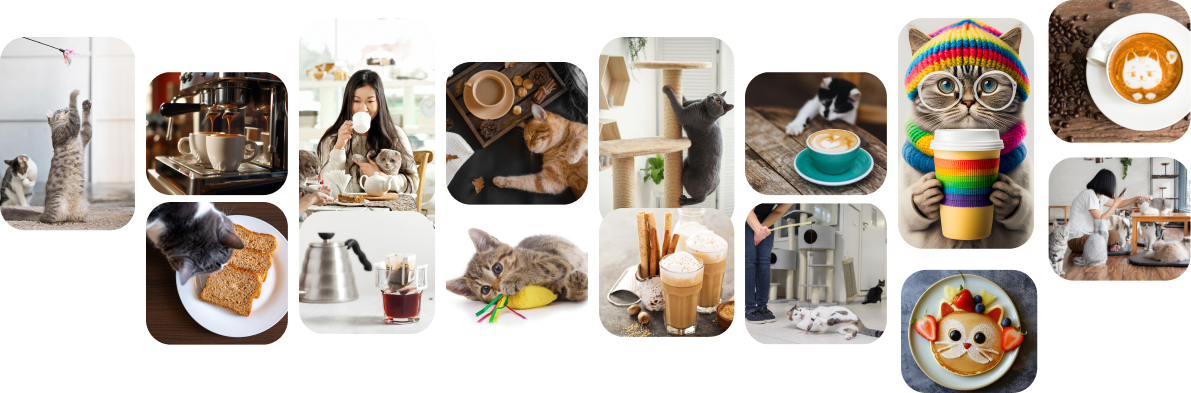
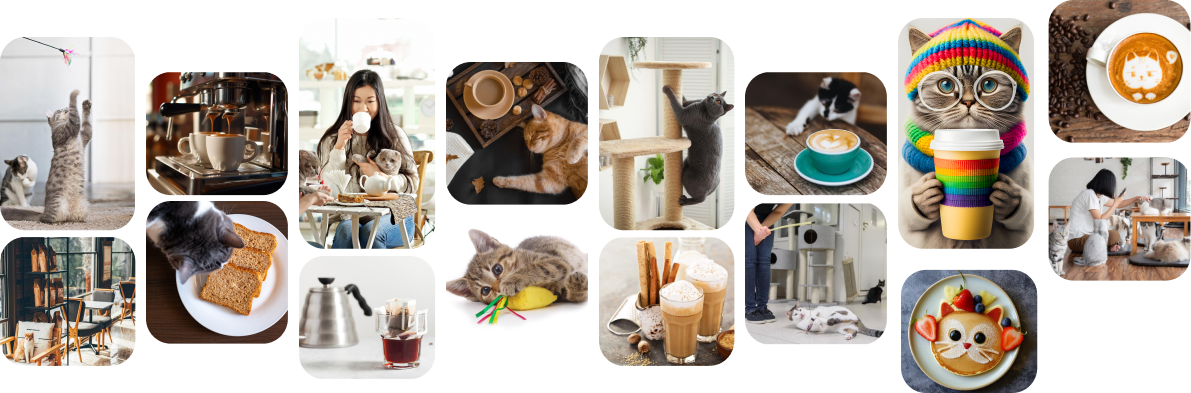
Ajustes Quem Somos

Changed region(s): [[0.1553, 0.5191, 0.6213, 0.9771], [0.0, 0.5802, 0.2175, 0.9466], [0.1243, 0.5496, 0.1553, 0.5802]]

diff --git a/estilo.css b/estilo.css
@@ -1,26 +1,26 @@
-*{
+* {
     margin: 0;
     padding: 0;
 }
 
-body{
+body {
     font-family: "Fredoka", sans-serif;
     font-weight: 500;
     background-color: #FFF2E3;
 }
 
-h1{
+h1 {
     padding-top: 30px;
     margin-top: 20px;
 }
 
-.cabecalho{
+.cabecalho {
     display: flex;
     align-items: center;
     justify-content: space-evenly;
 }
 
-.menu a{
+.menu a {
     text-decoration: none;
     color: #CC681C;
     padding-left: 50px;
@@ -33,7 +33,7 @@ h1 img {
     margin-bottom: 20px;
 }
 
-.capa{
+.capa {
     background-image: url(img/Capa.png);
     background-size: cover;
     height: 600px;
@@ -43,53 +43,53 @@ h1 img {
     font-size: 32px;
 }
 
-.capa h1{
+.capa h1 {
     padding-left: 60px;
     padding-top: 20px;
 }
 
-.capa img{
+.capa img {
     height: 45px;
     margin: 60px;
 }
 
-.gatalogo{
+.gatalogo {
     height: 615px;
     margin-top: -20px;
 }
 
-.gatalogo img{
+.gatalogo img {
     width: 100% auto;
     height: 635px;
 }
 
 .h1-gatalogo {
-text-align: center;
-margin-top: 125px;
-background-image: url(img/fundo-gatalogo.png);
-padding-top: 175px;
-padding-bottom: 90px;
-background-repeat: no-repeat;
-background-size: 100% auto;
-background-position: center;
-color: #fdfcfb;
-font-size: 58px;
+    text-align: center;
+    margin-top: 125px;
+    background-image: url(img/fundo-gatalogo.png);
+    padding-top: 175px;
+    padding-bottom: 90px;
+    background-repeat: no-repeat;
+    background-size: 100% auto;
+    background-position: center;
+    color: #fdfcfb;
+    font-size: 58px;
 }
 
-.gato-gatalogo{
+.gato-gatalogo {
     margin-top: -162px;
     margin-right: 80px;
     position: relative;
     text-align: end;
 }
 
-.Produtos{
+.Produtos {
     margin-left: auto;
     margin-right: auto;
     width: 1200px;
 }
 
-.titulo{
+.titulo {
     font-size: 60px;
     font-weight: normal;
     color: #CC681C;
@@ -97,7 +97,7 @@ font-size: 58px;
     margin-left: 420px;
 }
 
-.titulo-quemsomos{
+.titulo-quemsomos {
     font-size: 50px;
     font-weight: normal;
     color: #CC681C;
@@ -105,22 +105,33 @@ font-size: 58px;
     margin-left: -230px;
 }
 
-.texto-quem-somos{
+.texto-quem-somos {
     display: flex;
     flex-wrap: nowrap;
     padding-bottom: 40px;
     text-align: start;
-    font-size: 20px;
+    font-size: 25px;
     margin-top: 20px;
+    column-count: 2;
+    column-gap: 50px;
+    text-align: justify;
+    color: #CC681C;
+    margin-left: 75px;
+    margin-right: 75px;
 }
 
-.texto-quem-somos figcaption img:hover{
+.fotos-gatos img{
+    width: 90%;
+
+}
+
+.texto-quem-somos figcaption img:hover {
     transform: scale(1.5);
 }
 
-.texto-quem-somos figcaption{
+.texto-quem-somos figcaption {
     display: flex;
-    color:#CC681C;
+    color: #CC681C;
     align-items: center;
     padding-top: 35px;
 }
@@ -132,14 +143,13 @@ font-size: 58px;
 .salmaoduba,
 .scrambled-cat,
 .cheesecake,
-.gatoccino
-{
+.gatoccino {
     background-image: url(img/Iced-Coffe.png);
-    width: 285px!important;
+    width: 285px !important;
     padding-bottom: 166px;
     text-align: center;
     flex-wrap: wrap;
-    display: flex!important;
+    display: flex !important;
     align-items: end;
     height: 526px;
     justify-content: space-evenly;
@@ -147,41 +157,41 @@ font-size: 58px;
     background-repeat: no-repeat;
 }
 
-.Frappuccino{
+.Frappuccino {
     background-image: url(img/Frappuccino.png);
 }
 
-.Macarons{
+.Macarons {
     background-image: url(img/Macarons.png);
 }
 
-.Pankecat{
+.Pankecat {
     background-image: url(img/Pankecat.png);
 }
 
-.salmaoduba{
+.salmaoduba {
     background-image: url(img/salmaoduba.png);
 }
 
-.scrambled-cat{
+.scrambled-cat {
     background-image: url(img/scrambled-cat.png);
 }
 
-.cheesecake{
+.cheesecake {
     background-image: url(img/cheesecake.png);
 }
 
-.gatoccino{
+.gatoccino {
     background-image: url(img/gatoccino.png);
 }
 
-.coluna p{
+.coluna p {
     margin: 16px 30px 35px 30px;
 }
 
-.botao{
+.botao {
     background-color: #8597f6;
-    color:#fff;
+    color: #fff;
     font-weight: bold;
     letter-spacing: 1px;
     padding: 15px 60px;
@@ -190,12 +200,12 @@ font-size: 58px;
     box-sizing: border-box;
     margin: 0px auto 25px auto;
 }
- 
-.contato{
+
+.contato {
     margin-top: 189px;
 }
 
-.rodape{
+.rodape {
     background-color: #3AA698;
     text-align: center;
     padding: 25px 573px 25px 573px;
@@ -221,22 +231,23 @@ font-size: 58px;
     background-size: cover;
     padding-left: 44px;
     padding-right: 44px;
-}  
-
-.loja img{
-    width: 100%;    
 }
 
-.slick-prev:before, .slick-next:before{
-    font-size: 48px!important;
-    color: #CC681C!important;
+.loja img {
+    width: 100%;
+}
+
+.slick-prev:before,
+.slick-next:before {
+    font-size: 48px !important;
+    color: #CC681C !important;
 }
 
 .slick-prev {
-    left: -65px!important;
+    left: -65px !important;
 }
 
-.gato-quem-somos{
+.gato-quem-somos {
     display: inline-block;
     vertical-align: middle;
     width: 300px;
@@ -245,7 +256,7 @@ font-size: 58px;
 }
 
 .instagram,
-.face{
+.face {
     margin-right: 30px;
     height: 65px;
 }

diff --git a/index.html b/index.html
@@ -158,7 +158,7 @@
         
         <div class="quem-somos">
             <h1 class="titulo-quemsomos" id="titulo-quemsomos"><img src="img/gato-quem-somos.png" alt="" class="gato-quem-somos">     Quem somos?</h1>
-            <div><img src="img/imagens-quem-somos.png" alt=""></div>
+            <div class="fotos-gatos"><img src="img/imagens-quem-somos.png" alt=""></div>
 
             <div class="texto-quem-somos">
                     <div>
